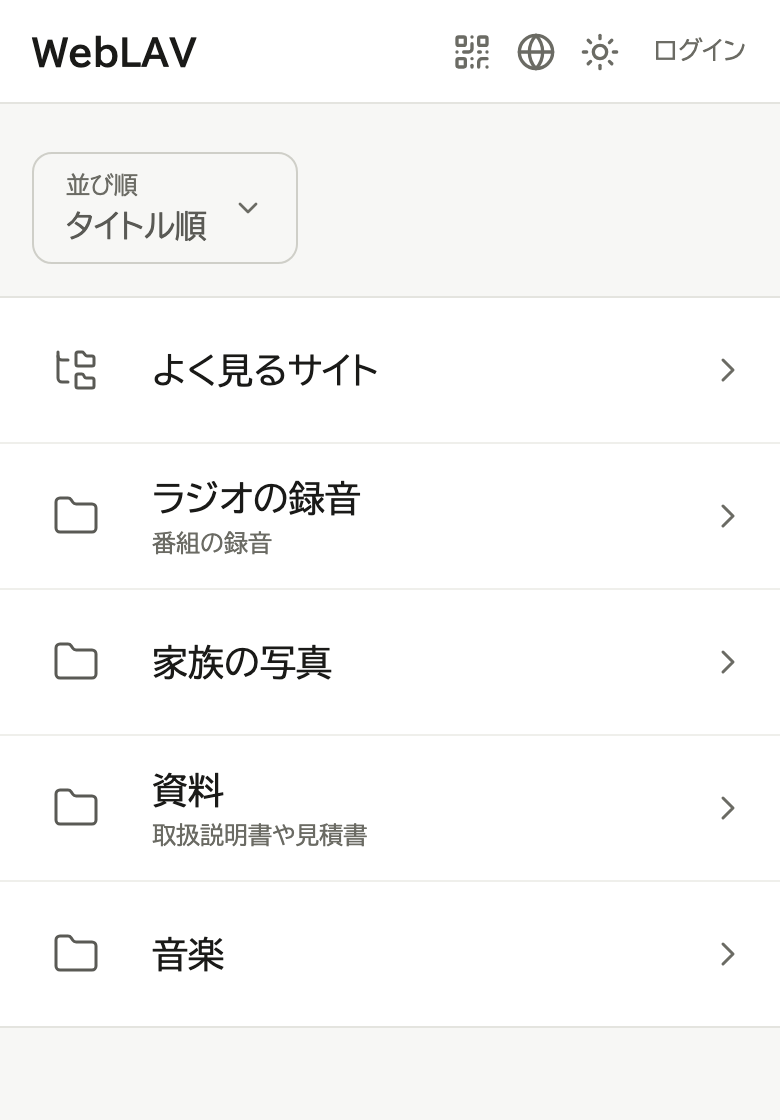
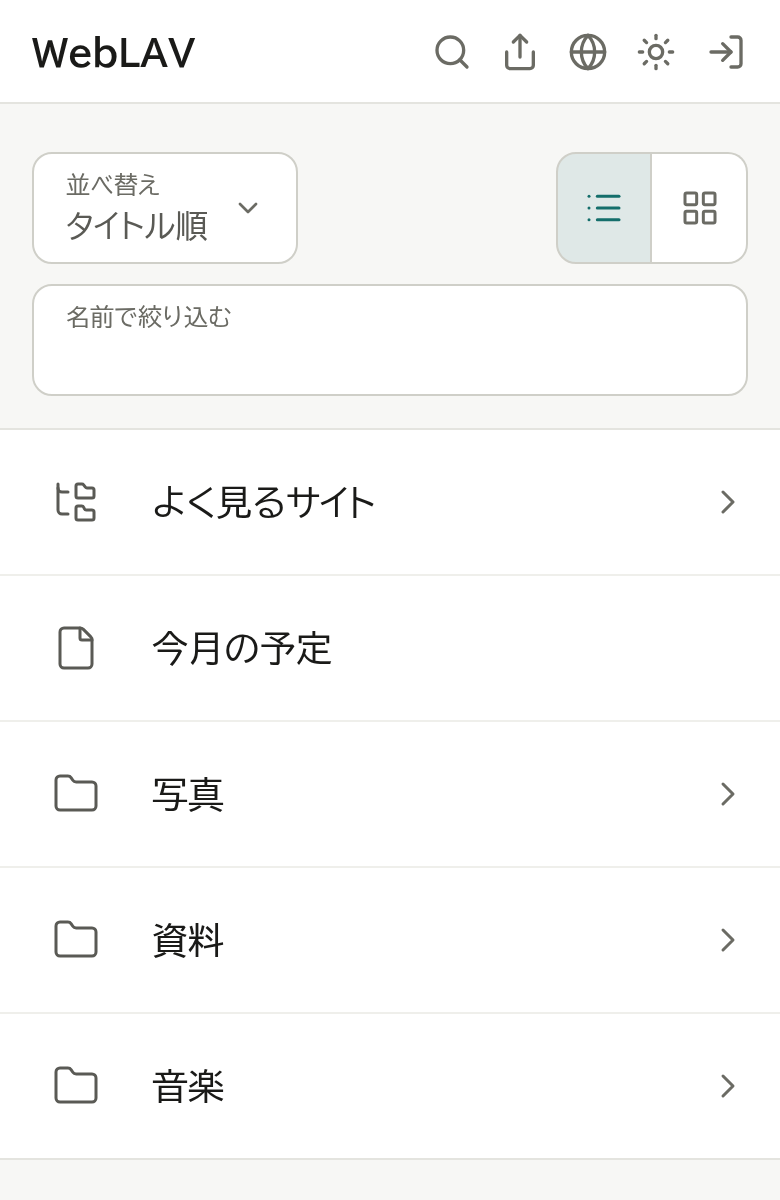
紹介のサイトのバッジ・画像・よくある質問を、今のアプリに合わせる (#132)
* 紹介のサイトのバッジを、値段と環境ごとの語に揃える

運営者のサイトのバッジの決めごとが、決まった語を値段・使う条件・動く環境の順に並べ、環境を1つずつのバッジにする形に変わった。使い方の中の機器 (見る側のスマホ) は含めない。

* 紹介のサイトの画面の画像を、今のアプリで撮り直す

ホーム・音声・PDF の一覧・管理画面の画像が、検索・共有のボタン、名前で絞り込む欄、並べ方の切り替え、プレイヤーのリピートとシャッフルより前の見た目だった。サンプルは、接続の画像やストアの画面写真と同じものにそろえた。

* 紹介のサイトのよくある質問を、今の作りに合わせる

NAS の共有フォルダーは、OS から開ければ登録できるのに、見せられないと書いていた。他の端末から開けないときの答えが Windows だけだったので、macOS と Linux の設定も足す。バッジに、決めごとの語の「登録不要」を足す (アカウントの登録が要らないことは、よくある質問に書いている)。

* 紹介のサイトのバッジから「登録不要」を外す

運営者のサイトの決めごとで、使う条件のバッジは負担のある側 (要登録) だけを付けることになった。

diff --git a/site/src/content.config.ts b/site/src/content.config.ts
@@ -18,7 +18,7 @@ const product = defineCollection({
       hero: z.array(z.object({ src: image(), alt: z.string() })).min(1).max(3),
       // 帯の色。白い文字を載せるので、白とのコントラスト比 4.5 以上の暗めの色にする
       color: z.string().regex(/^#[0-9a-f]{6}$/i),
-      platforms: z.array(z.enum(['windows', 'macos'])).min(1),
+      platforms: z.array(z.enum(['windows', 'macos', 'linux'])).min(1),
       // platforms と status は運営者のサイトの製品ページと揃えて持つ。今は表示に使わず、ダウンロードの欄は常に準備中を出す
       status: z.enum(['coming-soon']),
     }),

diff --git a/site/src/content/index.md b/site/src/content/index.md
@@ -5,14 +5,14 @@ description: WebLAV は、パソコンに入っている音声・動画・PDF・
 lead: |
   パソコンに入っている写真・音楽・PDF などを、同じ Wi-Fi につながったスマホやタブレットのブラウザーで、そのまま見られます。
   見る側にアプリは要りません。クラウドに上げ直す必要もありません。
-badges: [無料, Windows 10 / 11・macOS・Linux, スマホはブラウザーだけ]
+badges: [無料, Windows, Mac, Linux]
 hero:
   - src: ./images/phone-home.png
-    alt: スマホの画面。グループ「よく見るサイト」と、「ラジオの録音」「家族の写真」「資料」「音楽」のフォルダーが縦に並んでいる
+    alt: スマホの画面。グループ「よく見るサイト」、ファイル「今月の予定」、「写真」「資料」「音楽」のフォルダーが縦に並んでいる
   - src: ./images/tablet-pdf.png
     alt: タブレットの画面。「資料」フォルダーの中の3つの PDF が、ファイル名・サイズ・日付つきで並んでいる
 color: '#0d5f63'
-platforms: [windows, macos]
+platforms: [windows, macos, linux]
 status: coming-soon
 ---
 
@@ -34,7 +34,7 @@ status: coming-soon
 
 音声は、一覧から選ぶと画面の下のプレイヤーで再生できます。
 
-![スマホの画面。ラジオの録音の「朝の番組」の音声が並び、画面の下のプレイヤーで「今日のニュース.wav」を再生している](./images/phone-audio.png)
+![スマホの画面。「音楽」フォルダーの音声が並び、画面の下のプレイヤーで「朝の散歩.wav」を再生している](./images/phone-audio.png)
 
 PDF・動画・画像も、ページの中でそのまま開けます。
 
@@ -46,7 +46,7 @@ PDF・動画・画像も、ページの中でそのまま開けます。
 
 見せるものは、パソコンのブラウザーの管理画面で登録します。
 
-![パソコンのブラウザーの管理画面。「コンテンツ管理」に、フォルダー・グループ・リンクが、種類・公開範囲・作成者つきで並んでいる](./images/desktop-admin-contents.png)
+![パソコンのブラウザーの管理画面。「コンテンツの管理」に、フォルダー・ファイル・グループ・リンクが、種類・公開範囲・作成者つきで並んでいる](./images/desktop-admin-contents.png)
 
 ## 使う流れ
 
@@ -67,7 +67,7 @@ PDF・動画・画像も、ページの中でそのまま開けます。
 
 ### NAS や共有フォルダーは見せられますか？
 
-見せられません。パソコンの中のフォルダーだけです。
+見せられます。ソフトを入れたパソコンから開ける NAS の共有フォルダーや外付けのディスクなら、パソコンの中のフォルダーと同じように登録できます。見られるのは、パソコンと NAS の両方が動いている間だけです。
 
 ### 通信は暗号化されますか？
 
@@ -75,7 +75,11 @@ PDF・動画・画像も、ページの中でそのまま開けます。
 
 ### 他の端末から開けないときは？
 
-Windows のネットワークの種類が「パブリック」だと開けません。「プライベート」に切り替えてください。
+ソフトを入れたパソコンの設定を確かめてください。
+
+- **Windows**: ネットワークの種類を「プライベート」にします。「パブリック」だと開けません。
+- **macOS**: ファイアウォールで、WebLAV への接続を許可します。
+- **Linux**: ファイアウォール（ufw など）を使っているなら、WebLAV のポート（ふつうは 8370）を開けます。
 
 ## 動作環境
 
